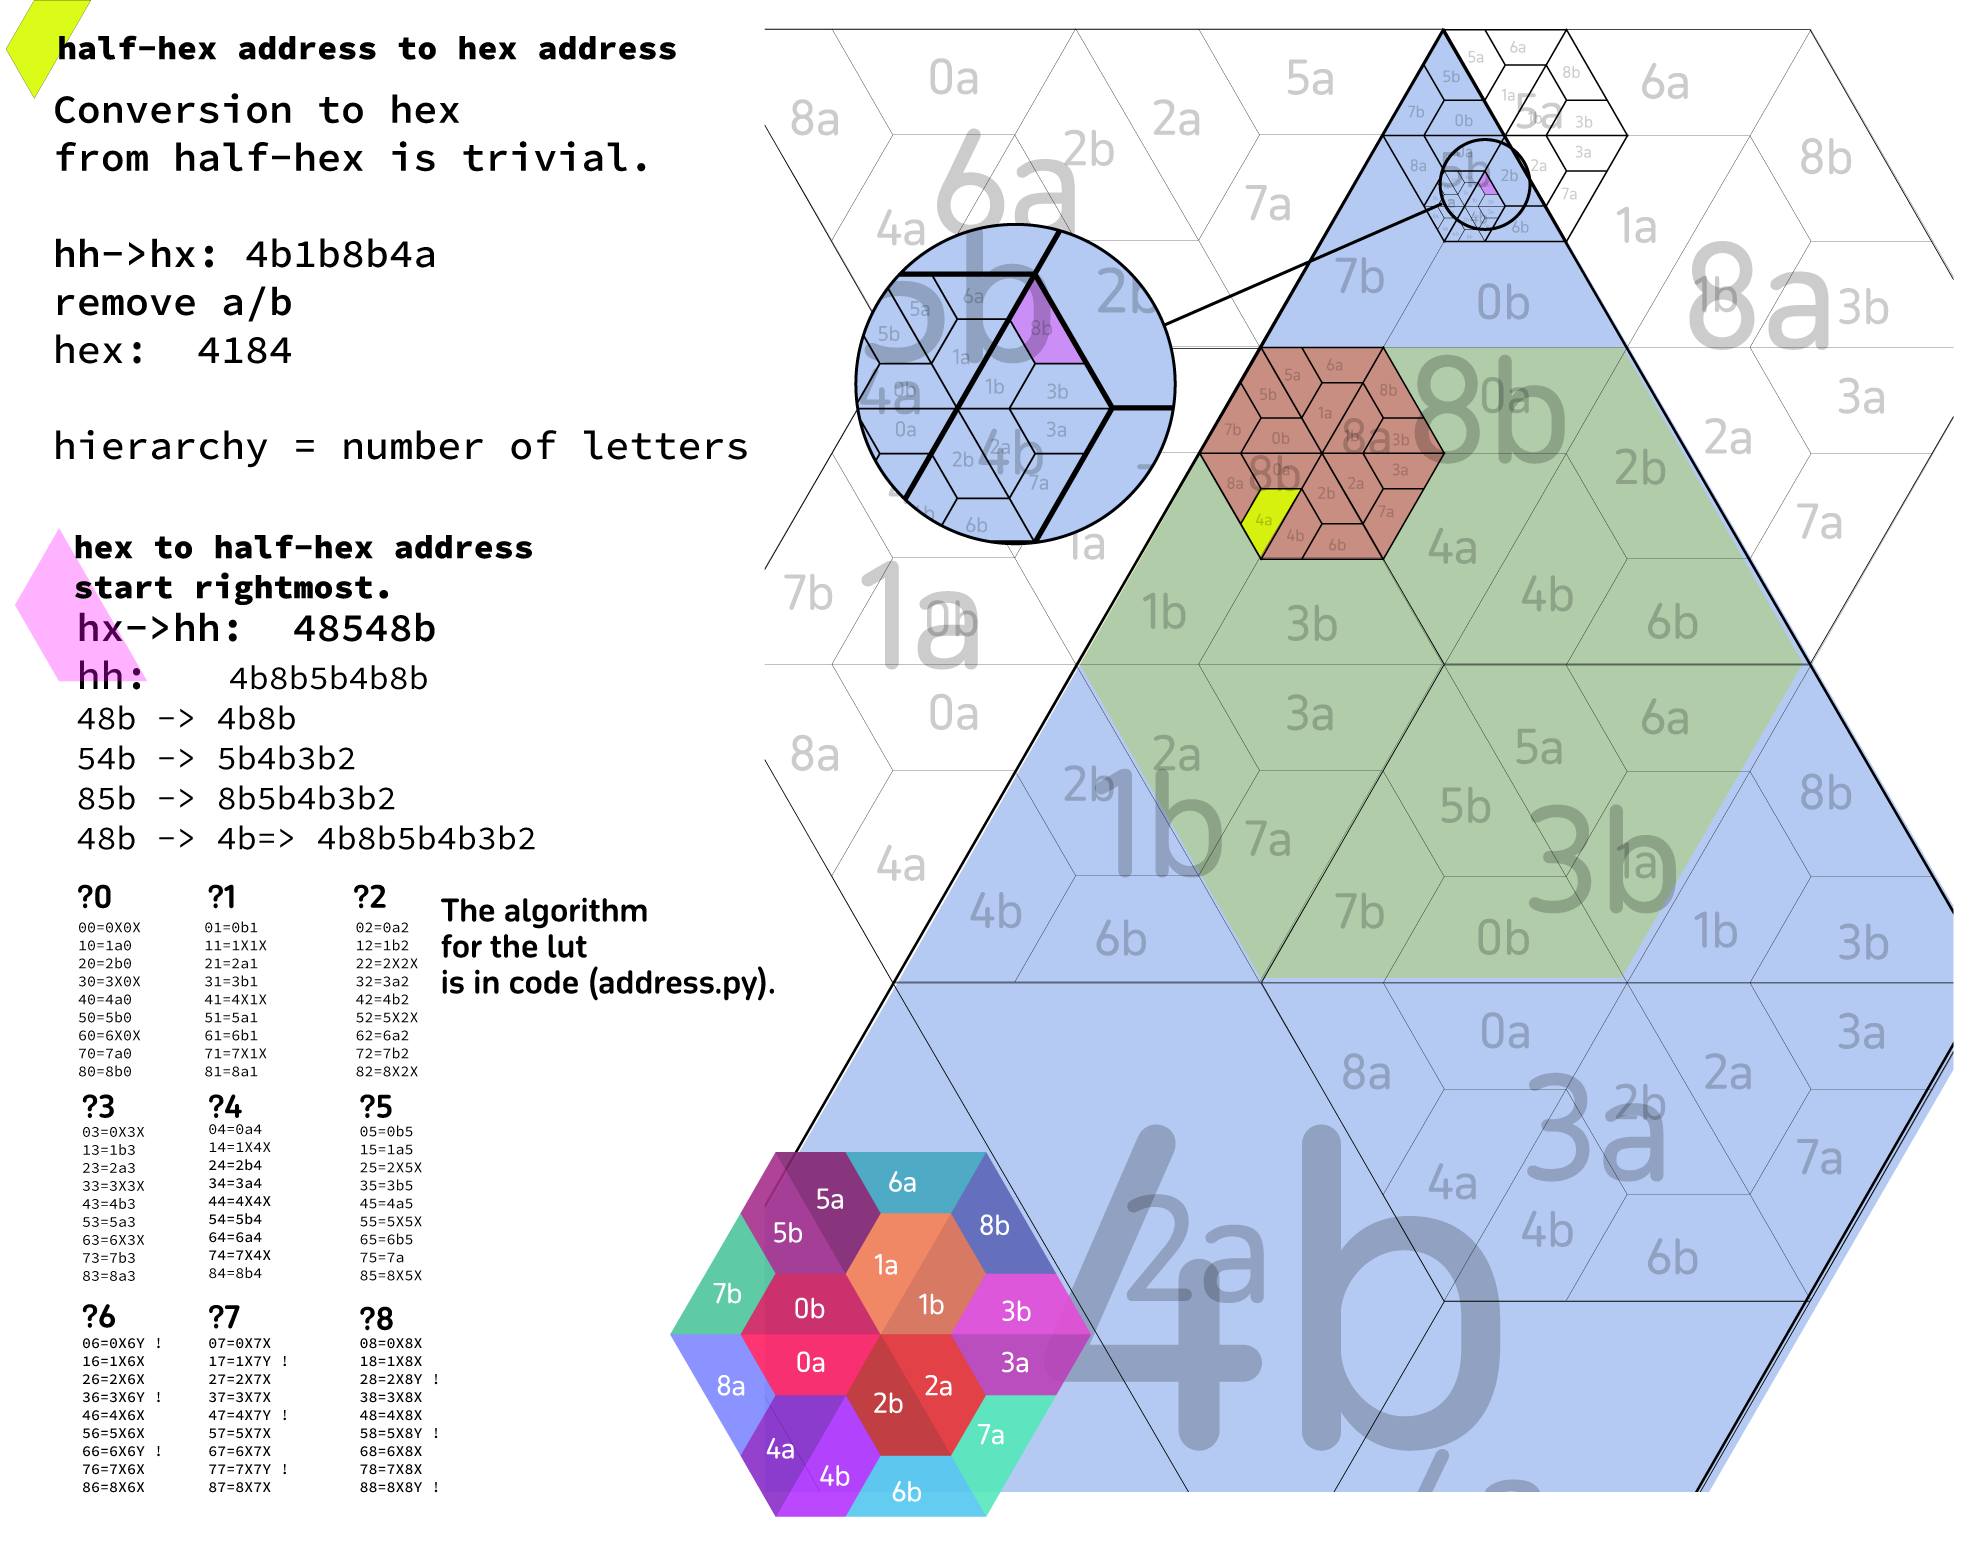
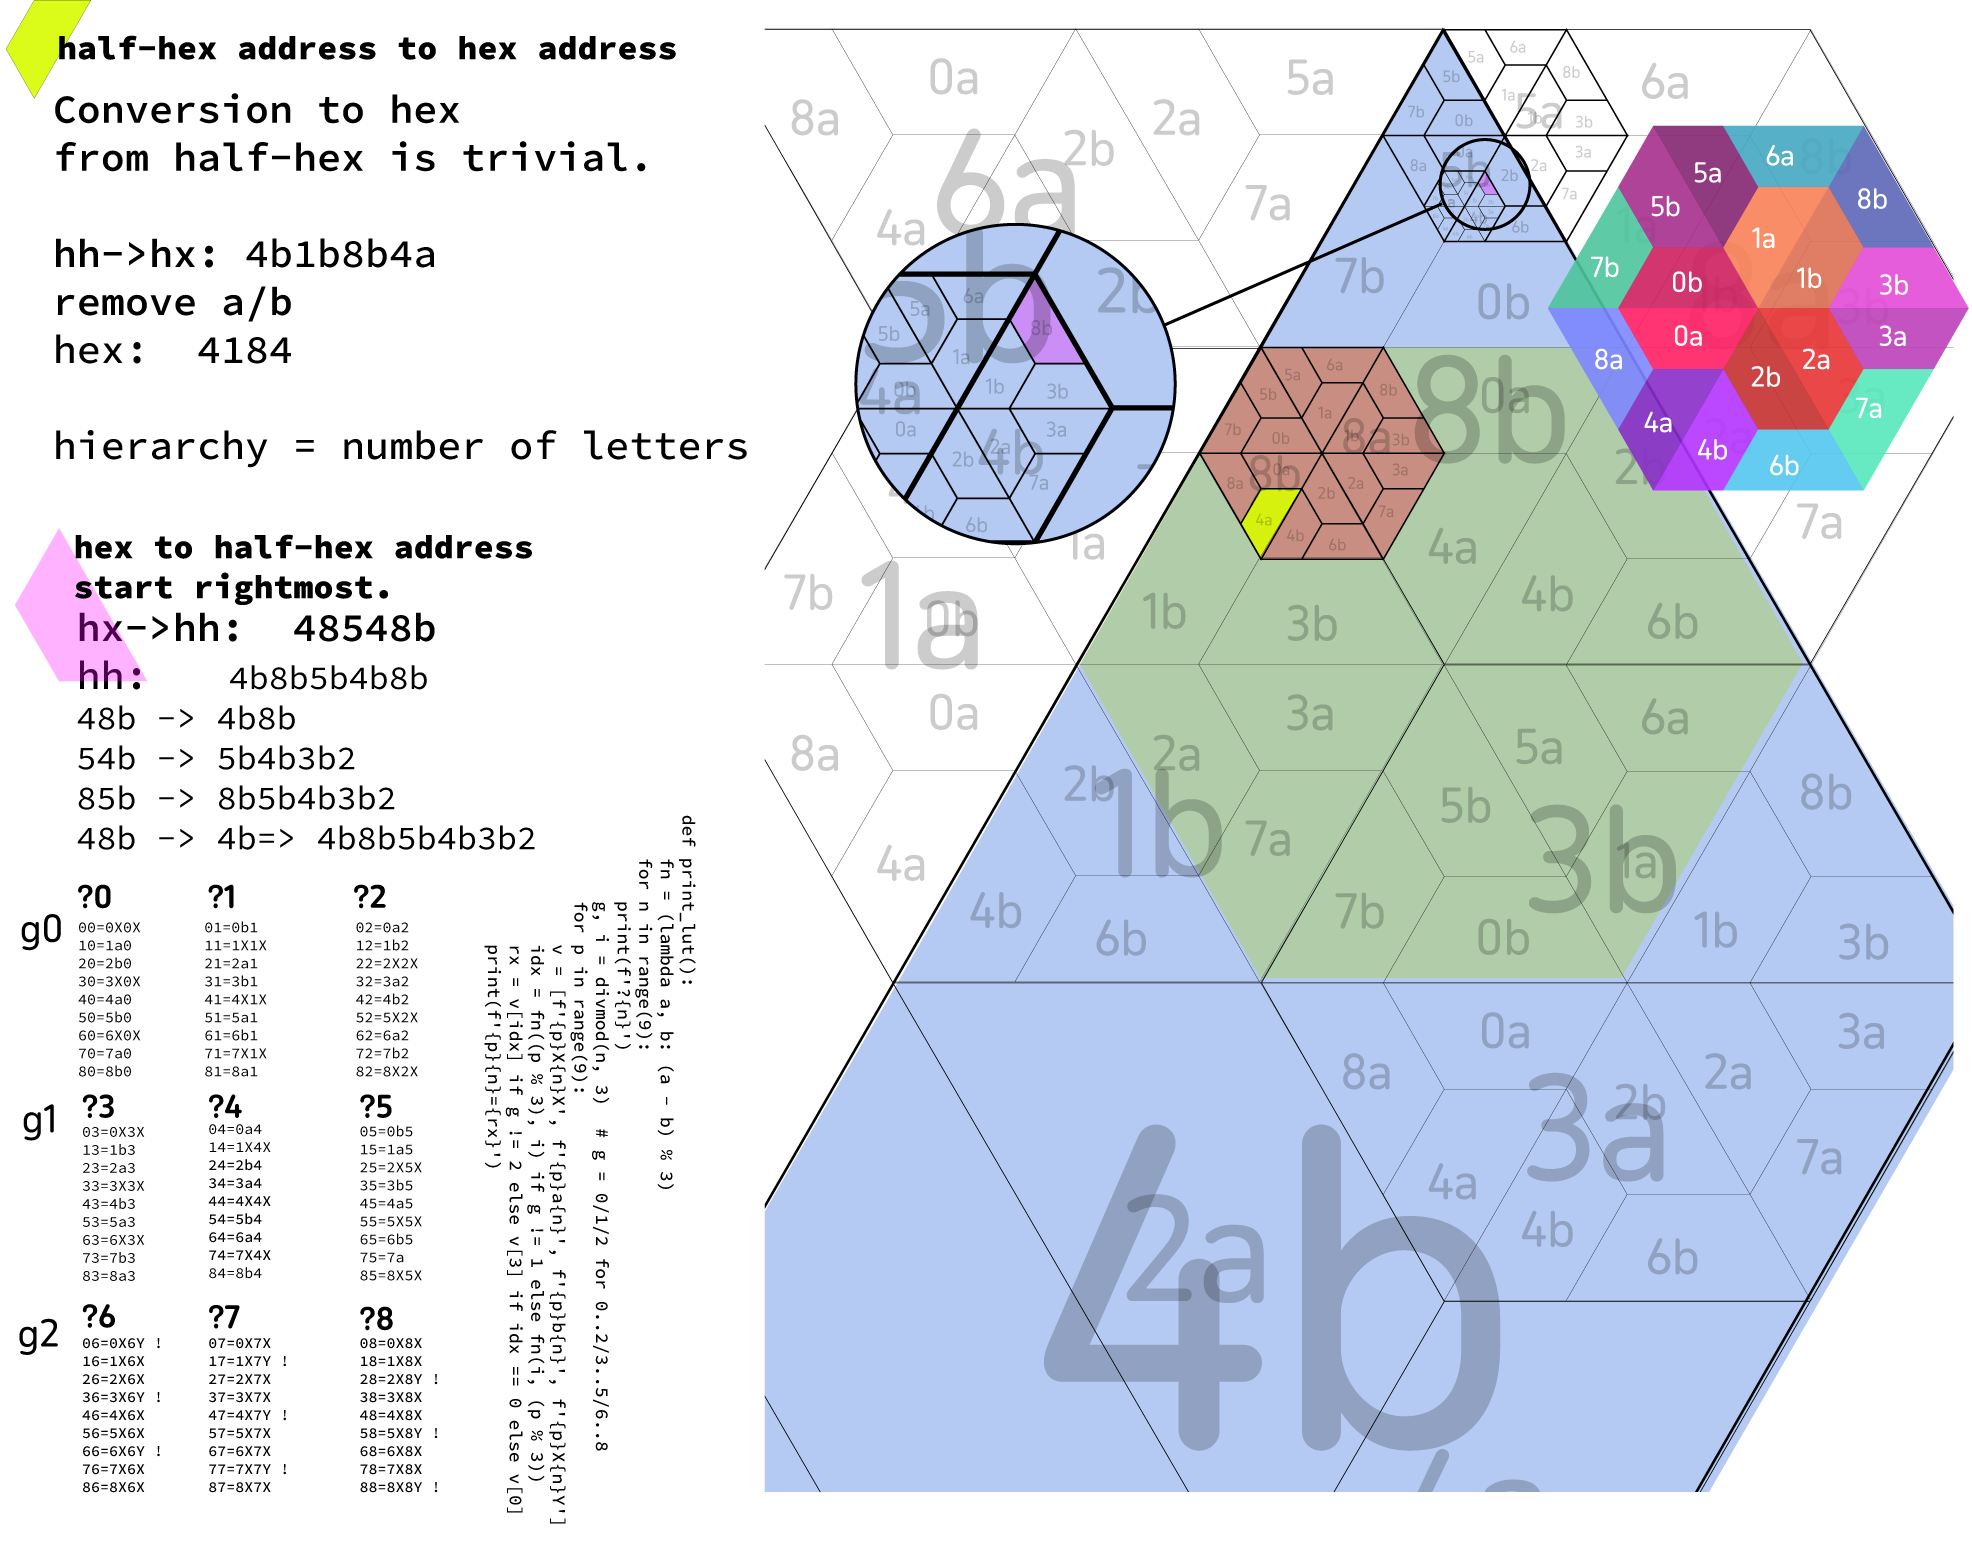
Modified the indices, added coordinate system, including algorithm and luts.  This is really easy which is what I wanted!

diff --git a/h9.py b/h9.py
@@ -155,18 +155,18 @@ class H9:
         [-2.5, -1.0, 5.], [0.5, -3, 0], [2., -2., 1],
         [2., 2., 2], [0.5, 3., 3], [-2.5, 1., 4]
     ]
-    h9_hh = {  # h9_hh: given an address in h9 coordinates, return list of equivalent hh coordinates.
-        0: (1, 1), 1: (2, 1), 2: (3, 1), 3: (3, 2), 4: (2, 2), 5: (1, 2),
-        6: (1, 0), 7: (2, 0), 8: (4, 1), 9: (4, 2), 10: (2, 3), 11: (1, 3),
-        12: (0, 1), 13: (3, 0), 14: (4, 0), 15: (4, 3), 16: (3, 3), 17: (0, 2)
-    }
-    hh_h9 = {  # hh_h9: given an address in hh coordinates, return list of equivalent h9 coordinates.
-        (0, 1): 12, (0, 2): 17,
-        (1, 0): 6,  (1, 1): 0, (1, 2): 5, (1, 3): 11,
-        (2, 0): 7,  (2, 1): 1, (2, 2): 4, (2, 3): 10,
-        (3, 0): 13, (3, 1): 2, (3, 2): 3, (3, 3): 16,
-        (4, 0): 14, (4, 1): 8, (4, 2): 9, (4, 3): 15
-    }
+    # h9_hh = {  # h9_hh: given an address in h9 coordinates, return list of equivalent hh coordinates.
+    #     0: (1, 1), 1: (2, 1), 2: (3, 1), 3: (3, 2), 4: (2, 2), 5: (1, 2),
+    #     6: (1, 0), 7: (2, 0), 8: (4, 1), 9: (4, 2), 10: (2, 3), 11: (1, 3),
+    #     12: (0, 1), 13: (3, 0), 14: (4, 0), 15: (4, 3), 16: (3, 3), 17: (0, 2)
+    # }
+    # hh_h9 = {  # hh_h9: given an address in hh coordinates, return list of equivalent h9 coordinates.
+    #     (0, 1): 12, (0, 2): 17,
+    #     (1, 0): 6,  (1, 1): 0, (1, 2): 5, (1, 3): 11,
+    #     (2, 0): 7,  (2, 1): 1, (2, 2): 4, (2, 3): 10,
+    #     (3, 0): 13, (3, 1): 2, (3, 2): 3, (3, 3): 16,
+    #     (4, 0): 14, (4, 1): 8, (4, 2): 9, (4, 3): 15
+    # }
     # This is a proper half-hex symbol not merely a grid.,
     a: float       # This is the length of each side of the unit equilateral triangles of a district.
     h: float       # This is the height of a unit equilateral of a district (of which there are 3).
@@ -268,14 +268,14 @@ class H9:
         else:
             return translate(self.districts[district], where)
 
-    @classmethod
-    def h92hh(cls, where) -> list:
-        # given an address in h9 coordinates, return list of equivalent hh8 coordinates.
-        # following dict maps region to hh8. Used, for instance, to find colours for an h9
-        ix, iy = where  # this is in h9 co-ordinates
-        ofx = ix << 2
-        ofy = (iy << 2) + ((ix & 1) << 1)
-        return [(ofx+x, ofy+y) for (x, y) in [cls.h9_hh[k] for k in range(18)]]
+    # @classmethod
+    # def h92hh(cls, where) -> list:
+    #     # given an address in h9 coordinates, return list of equivalent hh8 coordinates.
+    #     # following dict maps region to hh8. Used, for instance, to find colours for an h9
+    #     ix, iy = where  # this is in h9 co-ordinates
+    #     ofx = ix << 2
+    #     ofy = (iy << 2) + ((ix & 1) << 1)
+    #     return [(ofx+x, ofy+y) for (x, y) in [cls.h9_hh[k] for k in range(18)]]
 
     @classmethod
     def hh2r(cls, where) -> tuple:
@@ -294,7 +294,7 @@ class H9:
 if __name__ == '__main__':
     cmap = mpl.colormaps['plasma'].resampled(18)
     cols = [mpl.colors.rgb2hex(cmap(i)) for i in range(18)]
-    dim = H6.size_for(3, 4, 9)
+    dim = H9.size_for(3, 4, 9)
     cs = Drawing('test9', dim, False)
     h0 = H9(cs, 'h1', 9., 0, op=0.90)
     (xx, yy, oo) = h0.get_limits()
@@ -303,13 +303,13 @@ if __name__ == '__main__':
             h0.place([i, j], cols)
     cs.save()
 
-    cmap = mpl.colormaps['plasma'].resampled(12)
-    cols = [mpl.colors.rgb2hex(cmap(i)) for i in range(12)]
-    dim = H6.size_for(60, 30, 9)
-    cs = Drawing('test8', dim, False)
-    h0 = H6(cs, 'h1', 9., 0, op=0.90)
-    xx, yy, oo = h0.get_limits()
-    for j in yy:
-        for i in xx:
-            h0.place([i, j], cols)
-    cs.save()
+    # cmap = mpl.colormaps['plasma'].resampled(12)
+    # cols = [mpl.colors.rgb2hex(cmap(i)) for i in range(12)]
+    # dim = H6.size_for(60, 30, 9)
+    # cs = Drawing('test8', dim, False)
+    # h0 = H6(cs, 'h1', 9., 0, op=0.90)
+    # xx, yy, oo = h0.get_limits()
+    # for j in yy:
+    #     for i in xx:
+    #         h0.place([i, j], cols)
+    # cs.save()

diff --git a/address.py b/address.py
@@ -10,7 +10,6 @@ def set_lut():
         g, i = divmod(n, 3)  # g = 0/1/2 for 0..2/3..5/6..8
         for p in range(9):
             # v = [f'{p}X{n}X', f'{p}a{n}', f'{p}b{n}', f'{p}X{n}Y']
-
             idx = fn((p % 3), i) if g != 1 else fn(i, (p % 3))
             rx = v[idx] if g != 2 else v[3] if idx == 0 else v[0]
             # print(f'{p}{n}={rx}')
@@ -41,4 +40,4 @@ def canon(lut, addr: str):
 
 if __name__ == '__main__':
     hx2hh = set_lut()
-    print(canon(hx2hh, '4184a'))
+    print(canon(hx2hh, '318705251a'))
